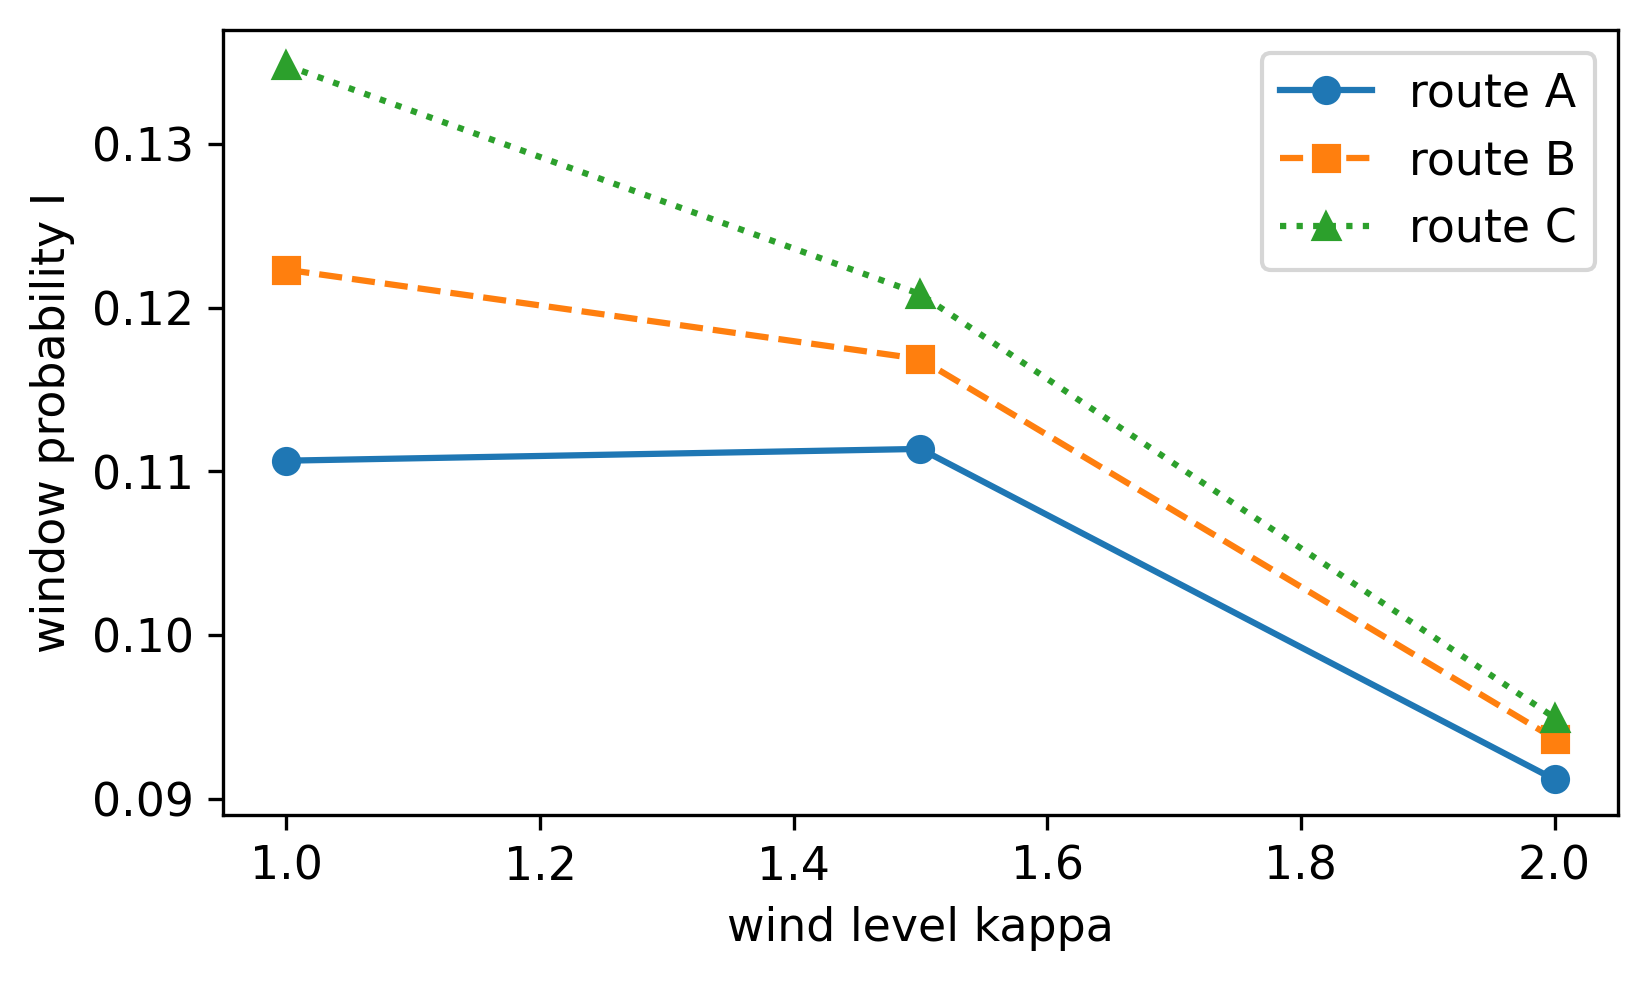
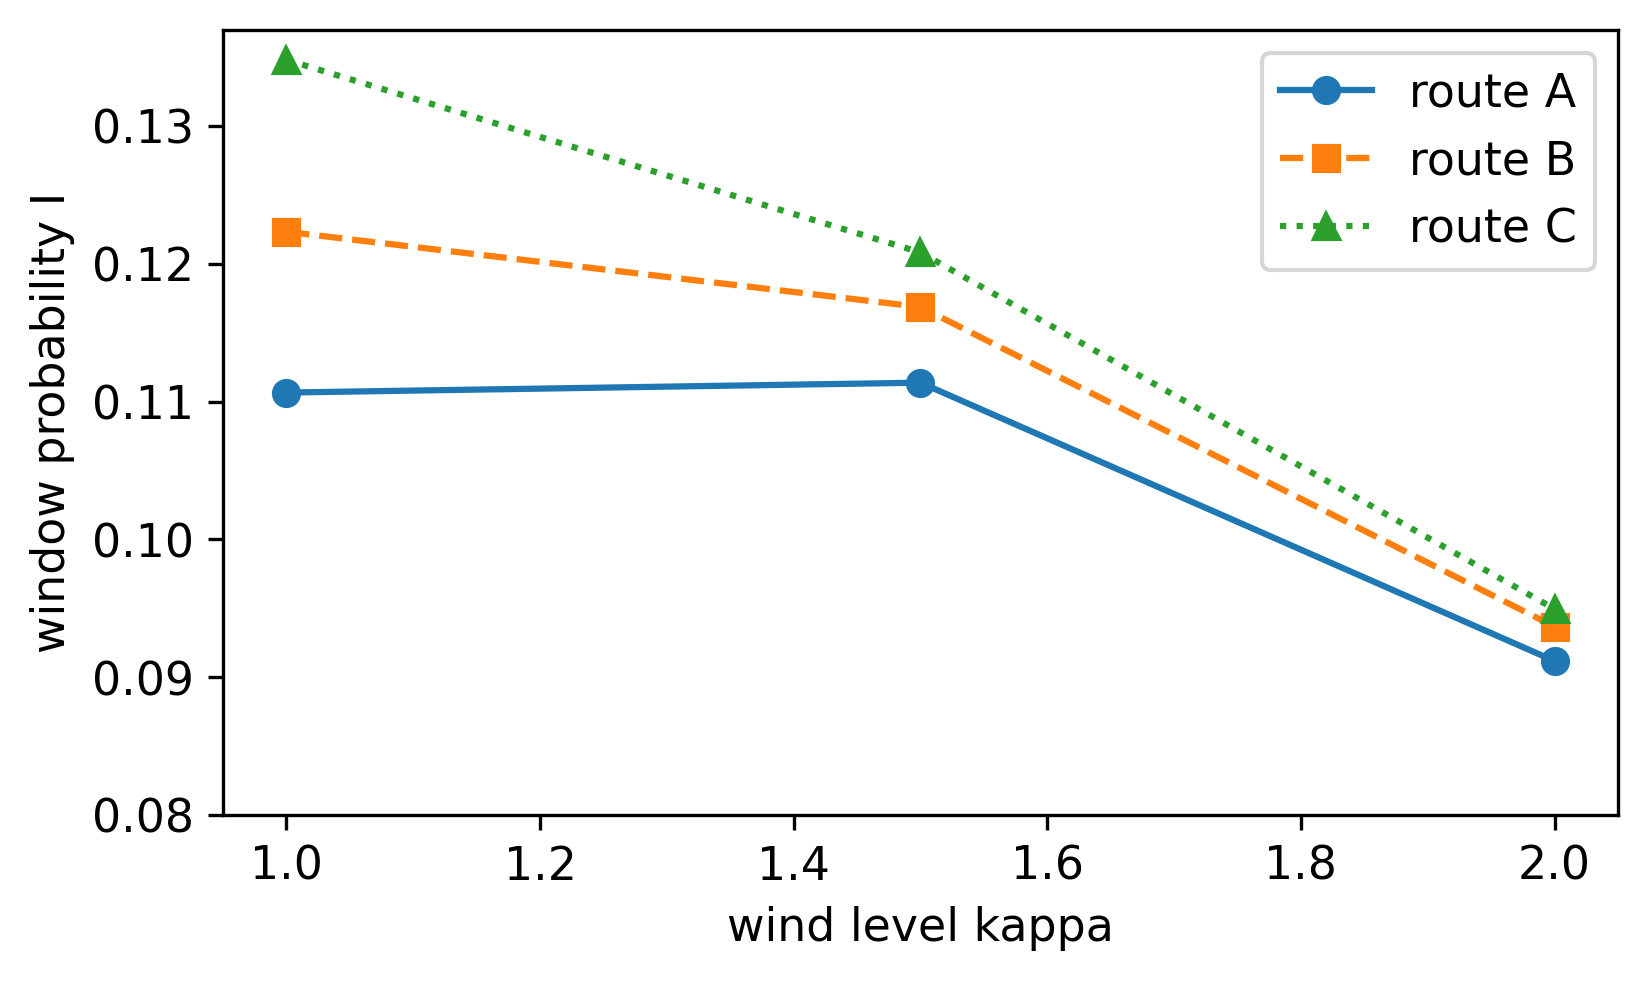
feat: add forced-excursion (fe) semantics mode and per-route W0/E[T|done] output for revised E1/E4

diff --git a/exp1_generalized_solver.py b/exp1_generalized_solver.py
@@ -1,6 +1,6 @@
 # -*- coding: utf-8 -*-
 """exp1_generalized_solver.py — 新论文核心实验 1
-E1 通用 GERT 等效 W 函数（fp 语义）+ 独立 Mason 公式符号等价验证
+E1 通用 GERT 等效 W 函数（fp/fe 语义对比）+ 独立 Mason 公式符号等价验证
 E2 良构参数集：解析 vs MC 交叉验证
 E3 灵敏度
 E4 航线 x 风级网格
@@ -30,6 +30,19 @@ def W_edge(p, lam):
 
 
 def build_WE(params, mode='fp'):
+    if mode == 'fe':
+        # forced-excursion reading: recon excursion counted on the forward
+        # path (Remark 1/E1); restart loops 2->1 and 4->1 in denominator.
+        W12 = W_edge(params['p1'], params['l1'])
+        W21 = W_edge(params['p2'], params['l2'])
+        W23 = W_edge(params['p3'], params['l3'])
+        W32 = W_edge(params['p3'], params['l3'])
+        W24 = W_edge(params['p4'], params['l4'])
+        W45 = W_edge(params['p5'], params['l5'])
+        W41 = W_edge(params['p6'], params['l6'])
+        F = W12 * W23 * W32 * W24 * W45
+        return sp.cancel(sp.together(
+            F / (1 - (W12 * W23 * W32 * W24 * W41 + W12 * W21))))
     gm = {n: sp.Symbol('g_' + n) for n in NODES}
     gm[SINK] = sp.Integer(1)
     unk = [gm[n] for n in NODES if n != SINK]
@@ -145,6 +158,11 @@ print("  fp == independent Mason reduction:",
 a_fp = analyze(WE_fp, 3.14, 6.14)
 print("  fp I(3.14,6.14)=%.9f  W0=%.6f  E[T|done]=%.4f"
       % (a_fp['I'], a_fp['W0'], a_fp['ET']/a_fp['W0']))
+WE_fe = build_WE(BASE, 'fe')
+a_fe = analyze(WE_fe, 3.14, 6.14)
+print("  fe I(3.14,6.14)=%.9f  W0=%.6f  E[T|done]=%.4f"
+      % (a_fe['I'], a_fe['W0'], a_fe['ET']/a_fe['W0']))
+print("  semantics shift fp - fe = %.6f" % (a_fp['I'] - a_fe['I']))
 
 # ================= E2 =================
 print("=" * 70)
@@ -214,6 +232,13 @@ for kappa in (1.0, 1.5, 2.0):
         p['p3'] = ROUTES[r][1]
         analyze(build_WE(p, 'fp'), lo_w, hi_w)
 print("  9-cell grid analytic time: %.2f s" % (time.perf_counter() - t0))
+print("  routes at kappa=1.0 (W0 / E[T|done]):")
+for _r in ('A', 'B', 'C'):
+    _p = dict(BASE)
+    _p['l3'], _p['p3'] = ROUTES[_r]
+    _a = analyze(build_WE(_p, 'fp'), lo_w, hi_w)
+    print("    %s: W0=%.6f  E[T|done]=%.4f"
+          % (_r, _a['W0'], _a['ET'] / _a['W0']))
 argmaxes = set(best.values())
 if len(argmaxes) > 1:
     print("  >> optimal route VARIES with wind -> adaptation necessary")

diff --git a/_exp1lib.py b/_exp1lib.py
@@ -30,6 +30,20 @@ def W_edge(p, lam):
 
 
 def build_WE(params, mode='fp'):
+    if mode == 'fe':
+        # forced-excursion reading: the recon excursion is counted on the
+        # forward path (every mission flies it exactly once before delivery),
+        # with restart loops 2->1 and 4->1 in the denominator (Remark 1/E1).
+        W12 = W_edge(params['p1'], params['l1'])
+        W21 = W_edge(params['p2'], params['l2'])
+        W32 = W_edge(params['p3'], params['l3'])
+        W23 = W_edge(params['p3'], params['l3'])
+        W24 = W_edge(params['p4'], params['l4'])
+        W45 = W_edge(params['p5'], params['l5'])
+        W41 = W_edge(params['p6'], params['l6'])
+        F = W12 * W23 * W32 * W24 * W45
+        return sp.cancel(sp.together(
+            F / (1 - (W12 * W23 * W32 * W24 * W41 + W12 * W21))))
     gm = {n: sp.Symbol('g_' + n) for n in NODES}
     gm[SINK] = sp.Integer(1)
     unk = [gm[n] for n in NODES if n != SINK]

diff --git a/README.md b/README.md
@@ -25,7 +25,7 @@ All experiments are single-threaded and run on a laptop CPU.
 | file | what it does |
 |---|---|
 | `_exp1lib.py` | core library: W_E construction (linear system + Mason), residue analysis, window probability, Monte Carlo ground truth, well-posedness check |
-| `exp1_generalized_solver.py` | E1-E4: solver validation (independent symbolic Mason cross-check), analytic-vs-MC cross-validation, E3 sensitivity ranking, E4 routes x wind grid |
+| `exp1_generalized_solver.py` | E1-E4: solver validation + fp/fe excursion-semantics comparison (independent symbolic Mason cross-check), analytic-vs-MC cross-validation, E3 sensitivity ranking, E4 routes x wind grid (incl. per-route completion prob / E[T\|done] at kappa=1) |
 | `exp2_qlearning.py` | E5: wind-adaptive branch-rate correction via tabular Q-learning (GERT-in-the-loop) |
 | `exp3_case.py` | E6: 6-node inspection topology (topology-agnostic solver) |
 | `exp7_robustness.py` | E7: E1-E3 conclusions across three parameter groups (baseline / strong wind / high loss) |
